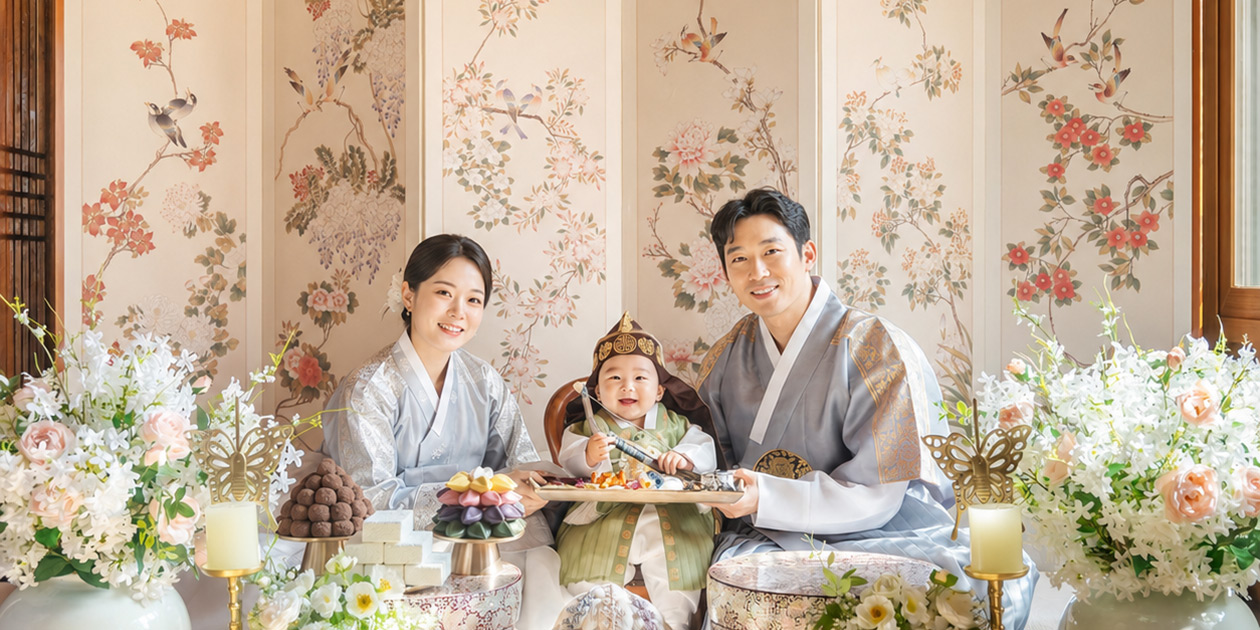
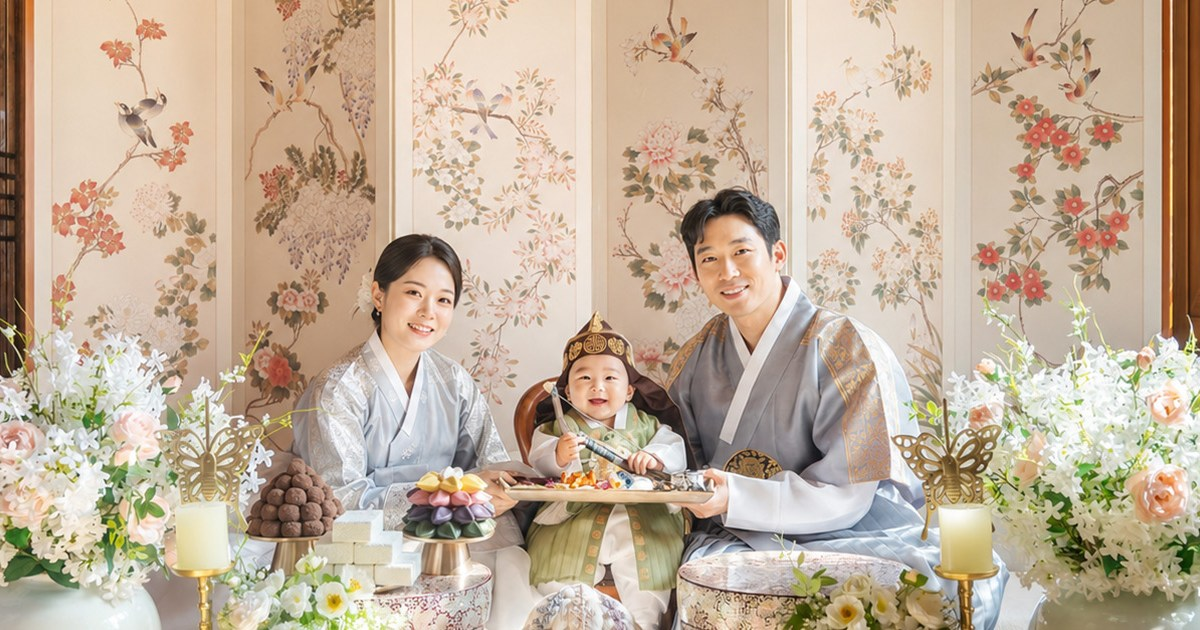
Validate OG image dimensions

diff --git a/scripts/check-static-site.js b/scripts/check-static-site.js
@@ -217,6 +217,31 @@ function requireIncludes(file, html, snippet, label) {
   }
 }
 
+function getJpegSize(file) {
+  const buffer = fs.readFileSync(file);
+  let offset = 2;
+
+  if (buffer[0] !== 0xff || buffer[1] !== 0xd8) return null;
+
+  while (offset < buffer.length) {
+    if (buffer[offset] !== 0xff) return null;
+
+    const marker = buffer[offset + 1];
+    const length = buffer.readUInt16BE(offset + 2);
+
+    if (marker >= 0xc0 && marker <= 0xc3) {
+      return {
+        height: buffer.readUInt16BE(offset + 5),
+        width: buffer.readUInt16BE(offset + 7),
+      };
+    }
+
+    offset += 2 + length;
+  }
+
+  return null;
+}
+
 function getHtmlTags(html, tagName) {
   return html.match(new RegExp(`<${tagName}\\b[^>]*>`, "gi")) || [];
 }
@@ -242,6 +267,15 @@ for (const [file, maxBytes] of Object.entries(assetSizeLimits)) {
   const size = fs.statSync(file).size;
   if (size > maxBytes) {
     console.error(`Asset too large: ${file} (${Math.round(size / 1024)}KB > ${Math.round(maxBytes / 1024)}KB)`);
+    hasError = true;
+  }
+}
+
+if (fs.existsSync("assets/images/social/og-image.jpg")) {
+  const ogImageSize = getJpegSize("assets/images/social/og-image.jpg");
+
+  if (!ogImageSize || ogImageSize.width !== 1200 || ogImageSize.height !== 630) {
+    console.error("OG image must be a 1200x630 JPEG: assets/images/social/og-image.jpg");
     hasError = true;
   }
 }
